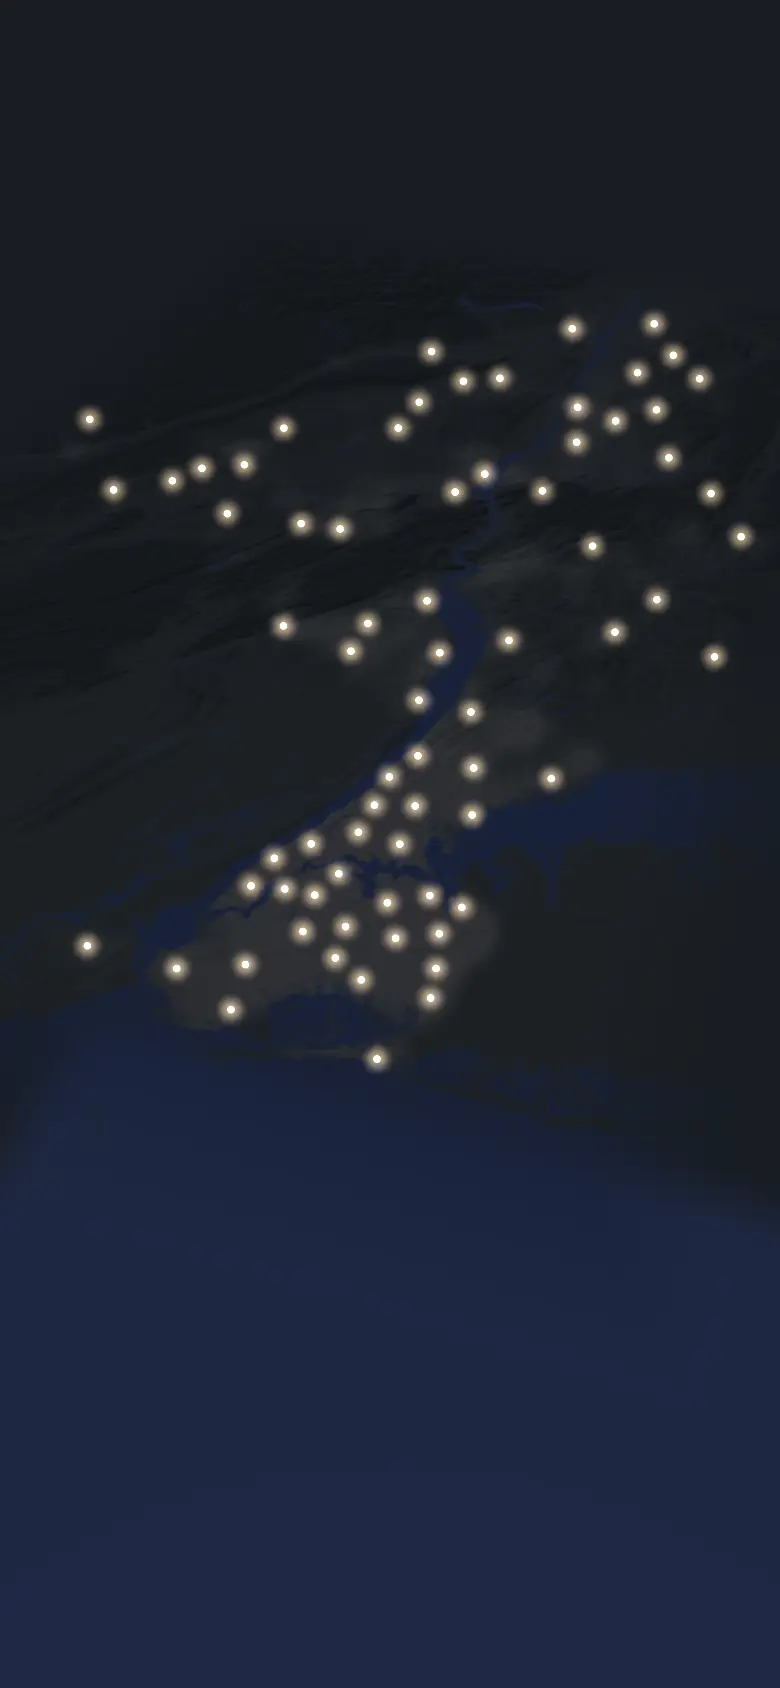
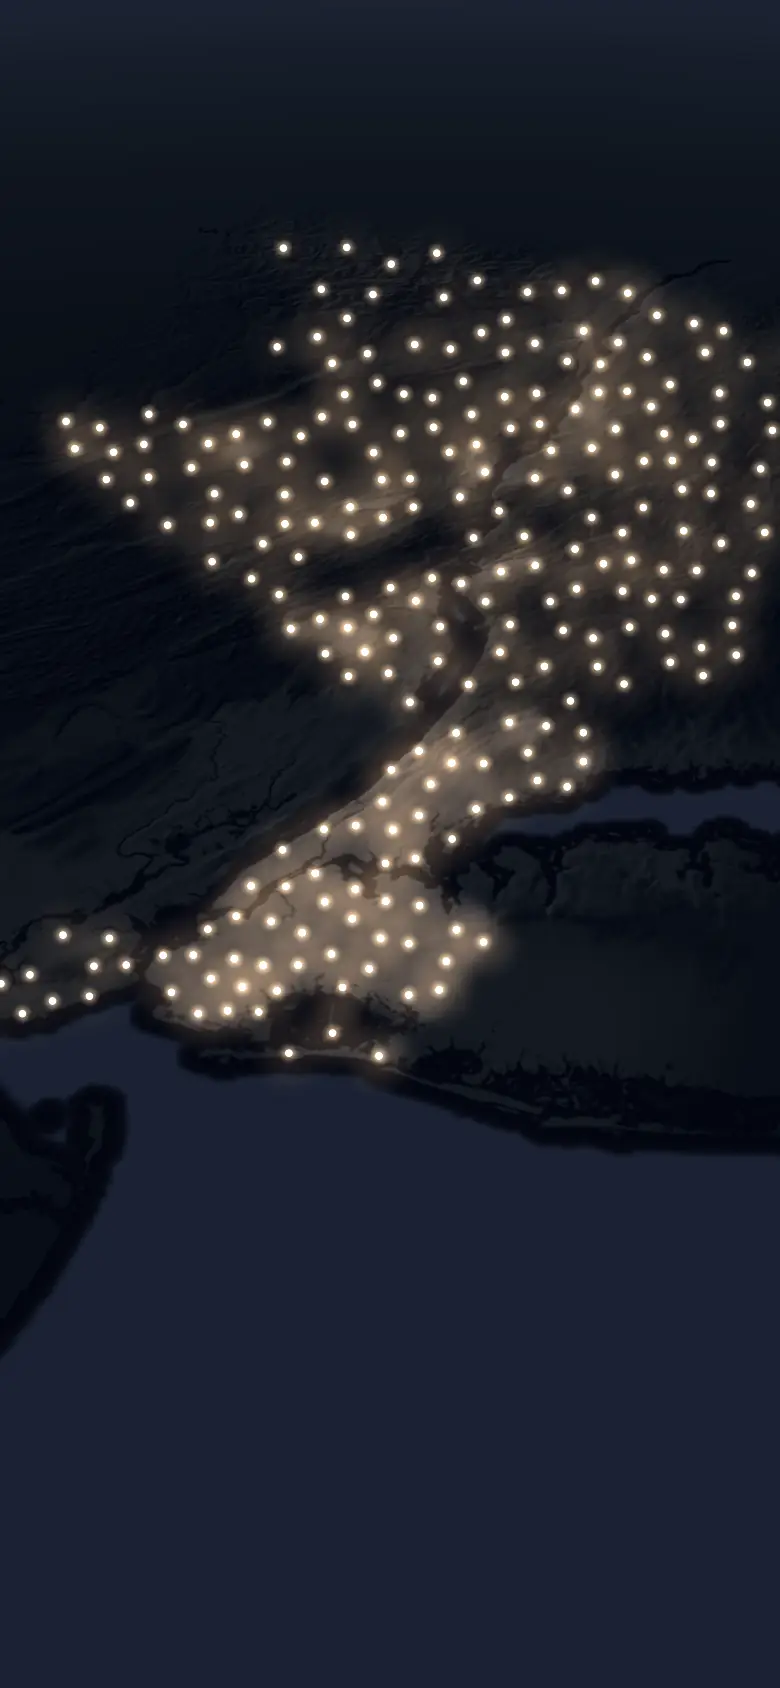
feat(r57.9): the cover re-rendered in moonlight - the coast beyond the grid, round 8's lights exactly
make-map-cover.mjs --look=night now draws the land in the IMAGERY'S OWN DAYLIGHT TONES and passes
every pixel through the live grade (night.ts gradeRgb, the same colour matrices Chrome runs), so
the cover is in exactly the look the map dissolves into:
- tones measured by `--measure` on the ungraded live frames at the hero camera, both widths (box
  means by what our data says is there: height, built density, water and distance from the shore,
  distance from the eye): lowlands, fields, uplands, our densest homes, the dark water within
  ~1.5 km of the shore and the imagery's flat sea beyond, and the far land's haze by distance;
- moonlit relief from our elevation grid, subtle (a slope facing the moon, from the west-north-west
  at 30 degrees, a little brighter);
- the coast and the sea beyond the grid from Natural Earth 1:10m land (scripts/data/ne10m-land-
  nyc.json, public domain, clipped to the covers' footprint): New Jersey, Connecticut and eastern
  Long Island have their shores now, not flat dark land;
- the lights exactly as round 8's live layer draws them at the hero: budgetFor and densityGap for
  the live css box (a phone's gap and glyph below 640 px), planDensity over the same hash order,
  representedCounts at 1.5 gaps and the five glow steps at strength 0.12, each light to its full
  reach, the logo corner dark; on a wide window the walk's Highlands step is taken with keep (the
[…]

diff --git a/components/site/SceneCredit.tsx b/components/site/SceneCredit.tsx
@@ -15,14 +15,16 @@ import { homeMap } from "@/lib/home-map";
  * Round 57.6: the credit follows the sources the page actually shows. On the real map (the default
  * with a key) our load cover is drawn from the elevation data and our own listings, with no night
  * imagery (scripts/make-map-cover.mjs --look=night), so NASA is named only when the ground is the
- * night flight (no key, or `NEXT_PUBLIC_HOME_MAP=night`), whose scene does use Black Marble. */
+ * night flight (no key, or `NEXT_PUBLIC_HOME_MAP=night`), whose scene does use Black Marble.
+ * Round 57.9: the real map's cover draws the coast and the sea beyond our elevation grid from
+ * Natural Earth's land (public domain; no credit is required, it is named because it is used). */
 export function SceneCredit() {
   if (usePathname() !== "/") return null;
   const night = homeMap({ NEXT_PUBLIC_HOME_MAP: process.env.NEXT_PUBLIC_HOME_MAP, NEXT_PUBLIC_GOOGLE_MAPS_API_KEY: process.env.NEXT_PUBLIC_GOOGLE_MAPS_API_KEY }) === "night";
   return (
     <p className="max-w-full md:ml-6 md:border-l md:border-current/20 md:pl-6">
       Terrain: Mapzen; USGS 3DEP, SRTM, GMTED2010 and NHD; NOAA ETOPO1.
-      {night ? " Night lights: NASA Earth Observatory (Black Marble 2016, Suomi NPP VIIRS)." : null}
+      {night ? " Night lights: NASA Earth Observatory (Black Marble 2016, Suomi NPP VIIRS)." : " Coastline: Natural Earth."}
     </p>
   );
 }

diff --git a/public/images/ATTRIBUTIONS.md b/public/images/ATTRIBUTIONS.md
@@ -185,7 +185,7 @@ vendor contract ever surfaces saying otherwise, this row is where to revisit.
 | public/images/mls/coming-soon-notext.svg | Wordless cut of the same panel, for overlay tiles that print their own price | RealtyLT | Our own artwork | — |
 | public/images/mls/coming-soon-notext-night.svg | Night cut of the wordless panel (round 53) | RealtyLT | Our own artwork | — |
 | public/images/home-night-poster.webp | The home page's first screen with no JavaScript and no WebGL: one frame of the night-flight scene's own establishing shot, rendered from the running site by `scripts/make-night-poster.mjs` (round 54; since round 57 shot from the real map's hero camera; since round 57.2 the real map has its own covers, below, and this still is the night ground's and the dusk cover's light layer). The lights are our own listing coordinates; the land is the elevation data credited under `public/geo/` below | RealtyLT | Our own artwork | -- |
-| public/images/home-night-cover.webp | The real map's load cover at a laptop's width, the default since round 57.6: the night map's own first frame, drawn by `scripts/make-map-cover.mjs --look=night` from the map's own hero camera. The relief and water are the elevation data credited under `public/geo/` below (its red and green channels only), shaded in the tones of the live map's night grade; built-up land is told by the density of our own listings (`/api/lights`); the lights are our own listing coordinates drawn with the live layer's own glyph and planner. No night-light imagery (the asset's blue channel, NASA) and no map imagery of anyone's is in it | RealtyLT | Our own artwork | -- |
+| public/images/home-night-cover.webp | The real map's load cover at a laptop's width, the default since round 57.6: the night map's own first frame, drawn by `scripts/make-map-cover.mjs --look=night` from the map's own hero camera. The relief and water are the elevation data credited under `public/geo/` below (its red and green channels only); since round 57.9 (moonlight) the coast and the sea beyond that grid are Natural Earth's 1:10m land (`scripts/data/ne10m-land-nyc.json`, public domain, below), the land is drawn in flat average tones (measured box means of the live map's own frames, no pixels of it) and passed through the live map's CSS night grade (`components/home/g3d/night.ts`); built-up land is told by the density of our own listings (`/api/lights`); the lights are our own listing coordinates drawn with the live layer's own glyph and planner. No night-light imagery (the asset's blue channel, NASA) and no map imagery of anyone's is in it | RealtyLT | Our own artwork | -- |
 | public/images/home-night-cover-tall.webp | The same cover for the phone, from the phone's own hero camera (780 x 1688), `--narrow=1` for the phone's glyph and floor | RealtyLT | Our own artwork | -- |
 | public/images/home-dusk-cover.webp | The real map's load cover at a laptop's width, A, the default in round 57.2 and since round 57.6 only a comparison (`?cover=dusk`): the land at dusk drawn by `scripts/make-map-cover.mjs --look=dusk` from the map's own hero camera, the relief and water from the elevation data credited under `public/geo/` below, the towns' glow from the same asset's night channel, and the homes' light from `home-night-poster.webp` laid over it. No map imagery of anyone's is in it | RealtyLT | Our own artwork | -- |
 | public/images/home-dusk-cover-tall.webp | The same cover for the phone, from the phone's own hero camera (780 x 1688); its lights are the night flight's still re-shot from that camera by `scripts/make-night-poster.mjs --width=780 --height=1688` | RealtyLT | Our own artwork | -- |
@@ -204,6 +204,7 @@ test only scans `public/images/`). Recorded here so the licence lives with the r
 |---|---|---|---|
 | `public/geo/valley-elevation.webp` + `.json`, red and green channels | The served region's elevation (R) and water fraction (G) on a 200 m grid, built by `scripts/build-elevation.mjs` | AWS Terrain Tiles (Mapzen/Tilezen "terrarium", AWS Open Data), zoom 11. Every tile's own `x-amz-meta-x-imagery-sources` header was read on 2026-09-22 (150 tiles): USGS 3DEP/NED 1/3 arc-second (125 tiles) and 1/9 arc-second Hudson LiDAR (82), SRTM (44), GMTED2010 (40), NOAA ETOPO1 (4). Water: USGS National Hydrography Dataset river polygons (hydro.nationalmap.gov, NHD "Area - Small Scale", StreamRiver) plus lakes found flat in the DEM | Public domain (USGS 3DEP, SRTM, GMTED2010, NHD; NOAA ETOPO1) |
 | `public/geo/valley-elevation.webp`, blue channel | The light the region gives off at night (B) on the same grid: the towns' glow, ranked by how large a lit area is, built by `scripts/build-nightlights.mjs` (round 55). Luminance only; the tile's colour ramp is not used | NASA Earth Observatory, "Black Marble" 2016: Suomi NPP VIIRS day-night band, cloud-free composite; the 500 m tile `BlackMarble_2016_B1_geo.tif` (0..90 N, 90 W..0) from `eoimages.gsfc.nasa.gov/images/imagerecords/144000/144898/`, fetched 2026-09-22 | NASA Media Usage Guidelines (below): not subject to copyright in the United States; NASA to be acknowledged as the source |
+| `scripts/data/ne10m-land-nyc.json` (round 57.9) | The land polygons of the region, clipped to the load covers' footprint (39.8 to 44.2 N, 76.8 to 71.2 W), lng/lat to 4 decimals: the coast and the sea beyond the elevation grid in the real map's night cover (`scripts/make-map-cover.mjs`) | Natural Earth 1:10m physical vectors, `ne_10m_land`, from `github.com/nvkelso/natural-earth-vector` (`geojson/ne_10m_land.geojson`, master), fetched 2026-09-24 | Public domain (naturalearthdata.com/about/terms-of-use: no permission or attribution required; named in the footer anyway, "Coastline: Natural Earth.") |
 
 Credits the sources ask for, verbatim:
 - NASA Media Usage Guidelines, `nasa.gov/nasa-brand-center/images-and-media/`, read 2026-09-22: "NASA
